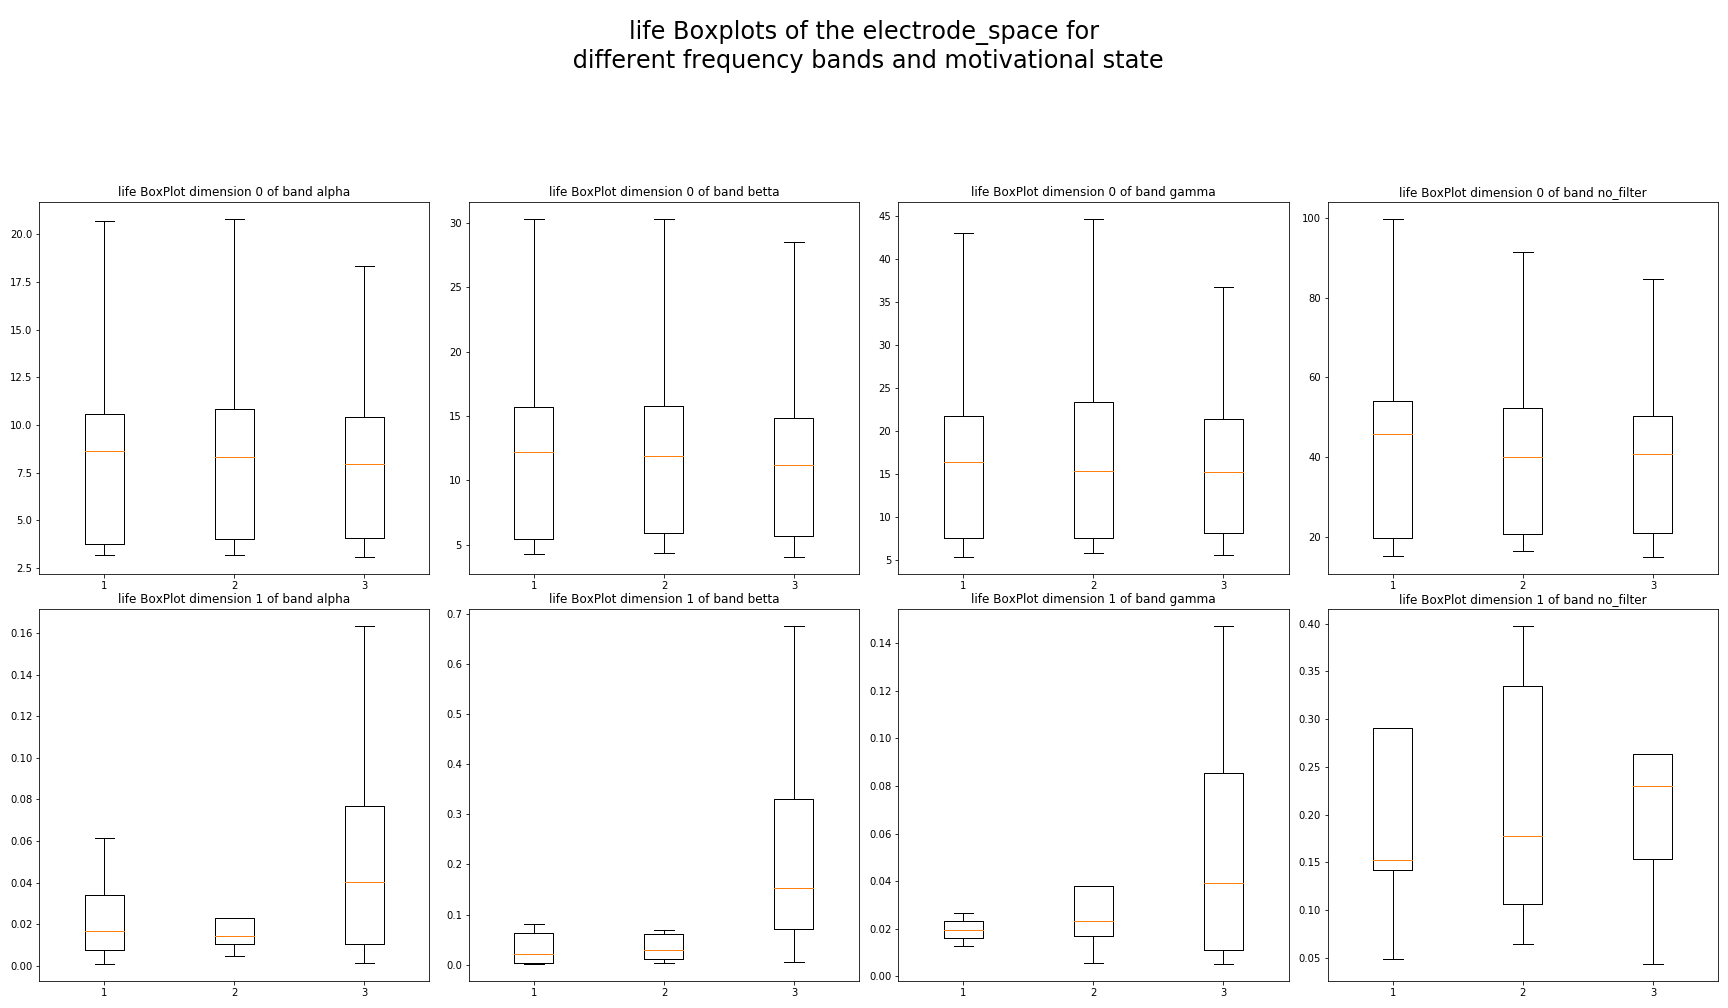
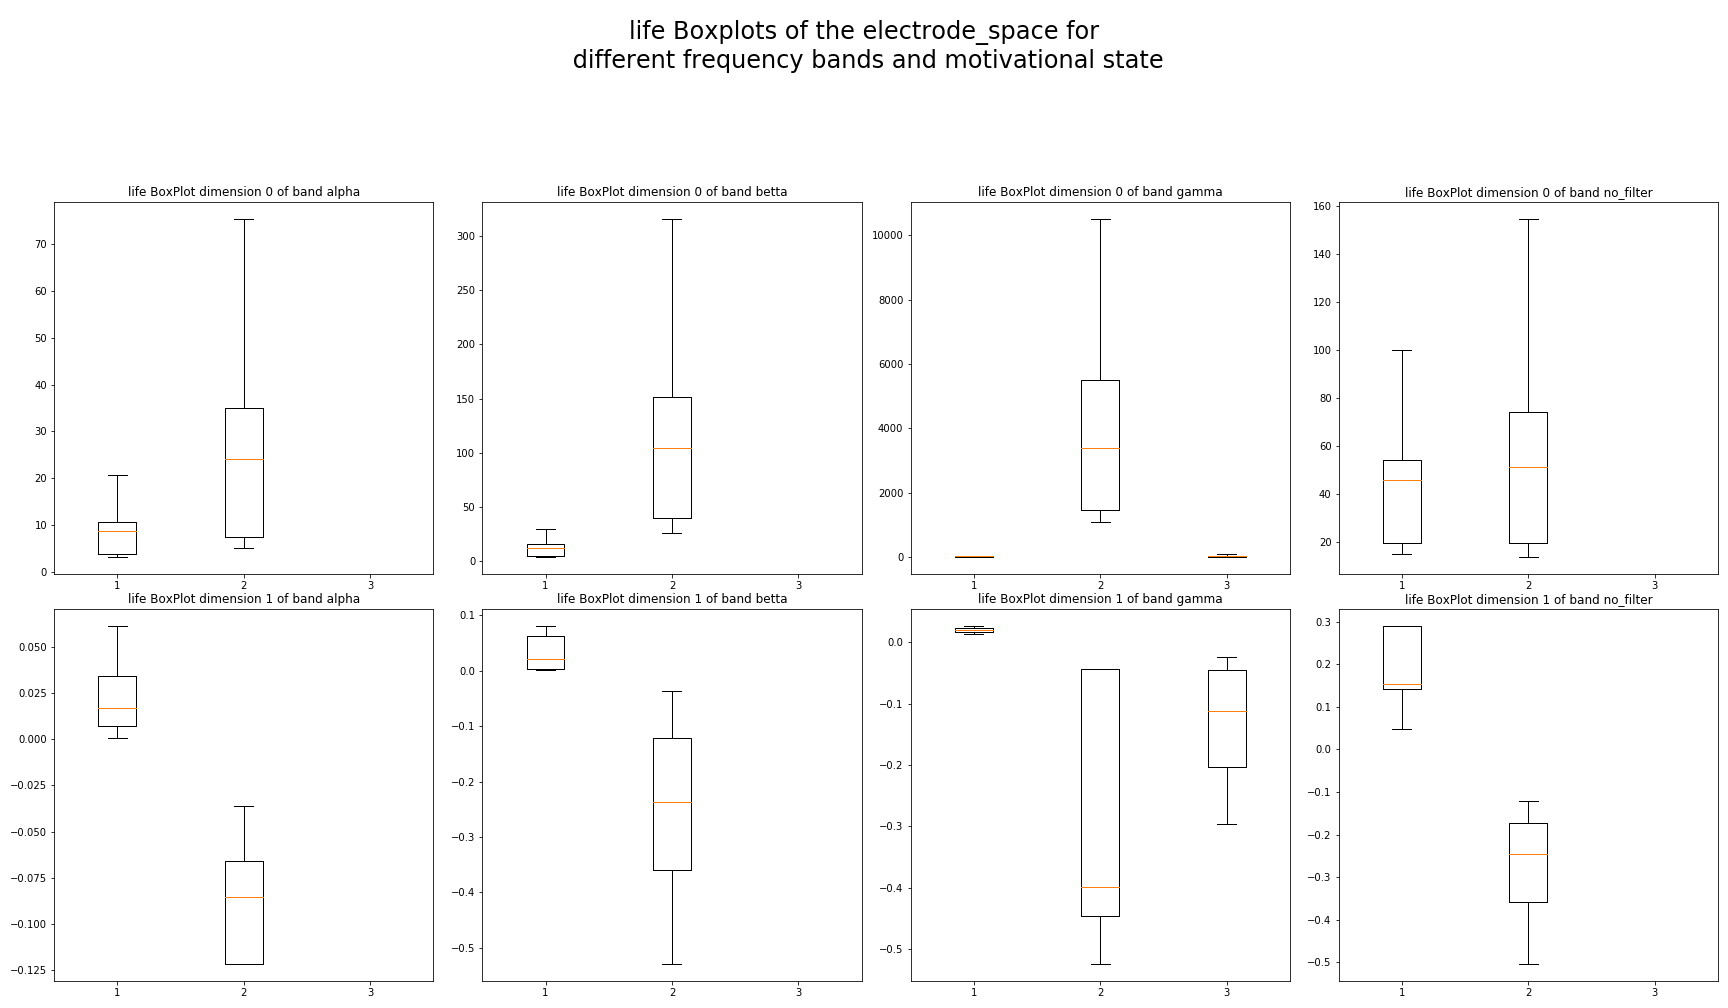
first try

diff --git a/topological_descriptors.py b/topological_descriptors.py
@@ -22,8 +22,8 @@ def compute_topological_descriptors(pers_band_dic,subj_dir,space,measure):
         zero_dim[i],one_dim[i]=separate_dimensions(pers_band_dic[i])
         bottleneck_table[i]=compute_bottleneck(zero_dim[i],one_dim[i],i)
         
-    avg_life_table=compute_stats(zero_dim,one_dim,subj_dir,space,measure,feat='life')
-    avg_midlife_table=compute_stats(zero_dim,one_dim,subj_dir,space,measure,feat='midlife')
+    avg_life_table=compute_basicstats(zero_dim,one_dim,subj_dir,space,measure,feat='life')
+    avg_midlife_table=compute_basicstats(zero_dim,one_dim,subj_dir,space,measure,feat='midlife')
 
     #add more descriptors
     descriptors_table_0=avg_life_table[0].join( avg_midlife_table[0],on=avg_life_table[0].index)
@@ -63,7 +63,8 @@ def compute_bottleneck(zero_dim,one_dim,k):
     table=pd.DataFrame(np.concatenate((distances_0_dim,distances_1_dim),axis=1),index=[band_dic[k]+' Motivational state 0',band_dic[k]+' Motivational state 1',band_dic[k]+' Motivational state 2'],columns=['M0 dimension 0','M1 dimension 0','M2 dimension 0','M0 dimension 1','M1 dimension 1','M1 dimension 2'])
     return table
 
-def compute_stats(zero_dim,one_dim,subj_dir,space,measure,feat='life'):
+
+def compute_basicstats(zero_dim,one_dim,subj_dir,space,measure,feat='life'):
     table={}
     zero_lifes={}
     one_lifes={}
@@ -75,25 +76,49 @@ def compute_stats(zero_dim,one_dim,subj_dir,space,measure,feat='life'):
         one_std_lifes=[]
         zero_lifes[i]=[]
         one_lifes[i]=[]
+        
+        zero_pooling_vector=[]
+        one_pooling_vector=[]
         if feat=='life':
             fun=lambda x: x[1]-x[0]
+            zero_persistent_entropies=[]
+            one_persistent_entropies=[]
         else:
             fun=lambda x: (x[1]+x[0])/2
         for j in range(3):
             zero_lifes[i].append(np.array(list(map(fun, zero_dim[i][j]))))
             one_lifes[i].append(np.array(list(map(fun, one_dim[i][j]))))
-            zero_avg_lifes.append(zero_lifes[i][j].mean())
-            one_avg_lifes.append(one_lifes[i][j].mean())
+            zero_L=zero_lifes[i][j].sum()
+            zero_avg_lifes.append(zero_L/len(zero_lifes[i][j]))
+            one_L=one_lifes[i][j].sum()
+            one_avg_lifes.append(one_L/len(one_lifes[i][j]))
             zero_std_lifes.append(zero_lifes[i][j].std())
             one_std_lifes.append(one_lifes[i][j].std())
-    
+            
+            if feat=='life':
+                zero_pooling_vector.append(np.sort(zero_lifes[i])[:10])
+                one_pooling_vector.append(np.sort(one_lifes[i])[:10])
+                zero_persistent_temp=[]
+                one_persistent_temp=[]
+                fun= lambda x: ((x[1]-x[0])/L)*np.log2((x[1]-x[0])/L)
+                L=zero_L
+                zero_persistent_temp.append(np.array(list(map(fun, zero_dim[i][j]))))
+                L=one_L
+                one_persistent_temp.append(np.array(list(map(fun, one_dim[i][j]))))
+                zero_persistent_entropies.append(-np.array(zero_persistent_temp).sum())
+                one_persistent_entropies.append(-np.array(one_persistent_temp).sum())
+                
         zero_avg_lifes=np.array(zero_avg_lifes,dtype=object).reshape((1,-1))
         one_avg_lifes=np.array(one_avg_lifes,dtype=object).reshape((1,-1))
         zero_std_lifes=np.array(zero_std_lifes,dtype=object).reshape((1,-1))
         one_std_lifes=np.array(one_std_lifes,dtype=object).reshape((1,-1))
-    
-    
-        table[i]=pd.DataFrame(np.concatenate((zero_avg_lifes,one_avg_lifes,zero_std_lifes,one_std_lifes),axis=0).T,index=[band_dic[i]+' Motivational state 0',band_dic[i]+' Motivational state 1',band_dic[i]+' Motivational state 2'],columns=['Avg. '+feat+' dim0','Avg. '+feat+' dim1','std '+feat+'dim0','std'+feat+' dim1'])
+            
+        if feat=='life':
+            zero_persistent_entropies=np.array(zero_std_lifes,dtype=object).reshape((1,-1)).T
+            one_persistent_entropies=np.array(one_persistent_entropies,dtype=object).reshape((1,-1)).T
+            table[i]=pd.DataFrame(np.concatenate((zero_avg_lifes,one_avg_lifes,zero_std_lifes,one_std_lifes,zero_persistent_entropies,one_persistent_entropies),axis=0).T,index=[band_dic[i]+' Motivational state 0',band_dic[i]+' Motivational state 1',band_dic[i]+' Motivational state 2'],columns=['Avg. '+feat+' dim0','Avg. '+feat+' dim1','std '+feat+'dim0','std '+feat+' dim1','persistent entropy dim0','persistent entropy dim1'])
+        else:
+            table[i]=pd.DataFrame(np.concatenate((zero_avg_lifes,one_avg_lifes,zero_std_lifes,one_std_lifes),axis=0).T,index=[band_dic[i]+' Motivational state 0',band_dic[i]+' Motivational state 1',band_dic[i]+' Motivational state 2'],columns=['Avg. '+feat+' dim0','Avg. '+feat+' dim1','std '+feat+'dim0','std '+feat+' dim1'])
     
     
     

diff --git a/Main_pipeline.py b/Main_pipeline.py
@@ -45,8 +45,8 @@ def load_data(i_sub,space='both'):
         return elec_space,font_space,subj_dir
 
 if __name__ == "__main__":    
-    #subjects=[27,28,29]
-    subjects=[25,26,27,28,29]
+    subjects=[28]
+    #subjects=[25,26,27,28,29]
     for subject in subjects:
         t=time.time()
         elec_space,font_space,subj_dir=load_data(subject)#,'space=electrode_space')
@@ -55,12 +55,12 @@ if __name__ == "__main__":
         #print('computing persistence of electrode space (with correlations) of subject',subject)
         #elec_space_pers_corr=compute_persistence_from_EEG(elec_space,measure='correlation',subj_dir=subj_dir,space='electrode_space',save=True) #pointcloud shape (432, 50)
         print('computing persistence of font space of subject',subject)
-        font_space_pers=compute_persistence_from_EEG(font_space,measure='intensities',subj_dir=subj_dir,space='font_space',save=True)
+       # font_space_pers=compute_persistence_from_EEG(font_space,measure='intensities',subj_dir=subj_dir,space='font_space',save=True)
         #print('computing persistence of font space (with correlations) of subject',subject)
         #font_space_pers_corr=compute_persistence_from_EEG(font_space,measure='correlation',subj_dir=subj_dir,space='font_space',save=True)
         print('plotting and saving data of subject',subject)
         plot_persistence(elec_space_pers,subj_dir,intervals=1000,space='electrode_space',measure='intensities',save=True)
-        plot_persistence(font_space_pers,subj_dir,intervals=1000,space='font_space',measure='intensities',save=True)
+       # plot_persistence(font_space_pers,subj_dir,intervals=1000,space='font_space',measure='intensities',save=True)
         #plot_persistence(elec_space_pers_corr,subj_dir,intervals=1000,space='electrode_space',measure='correlation',save=True)
         #plot_persistence(font_space_pers_corr,subj_dir,intervals=1000,space='font_space',measure='correlation',save=True)
         
